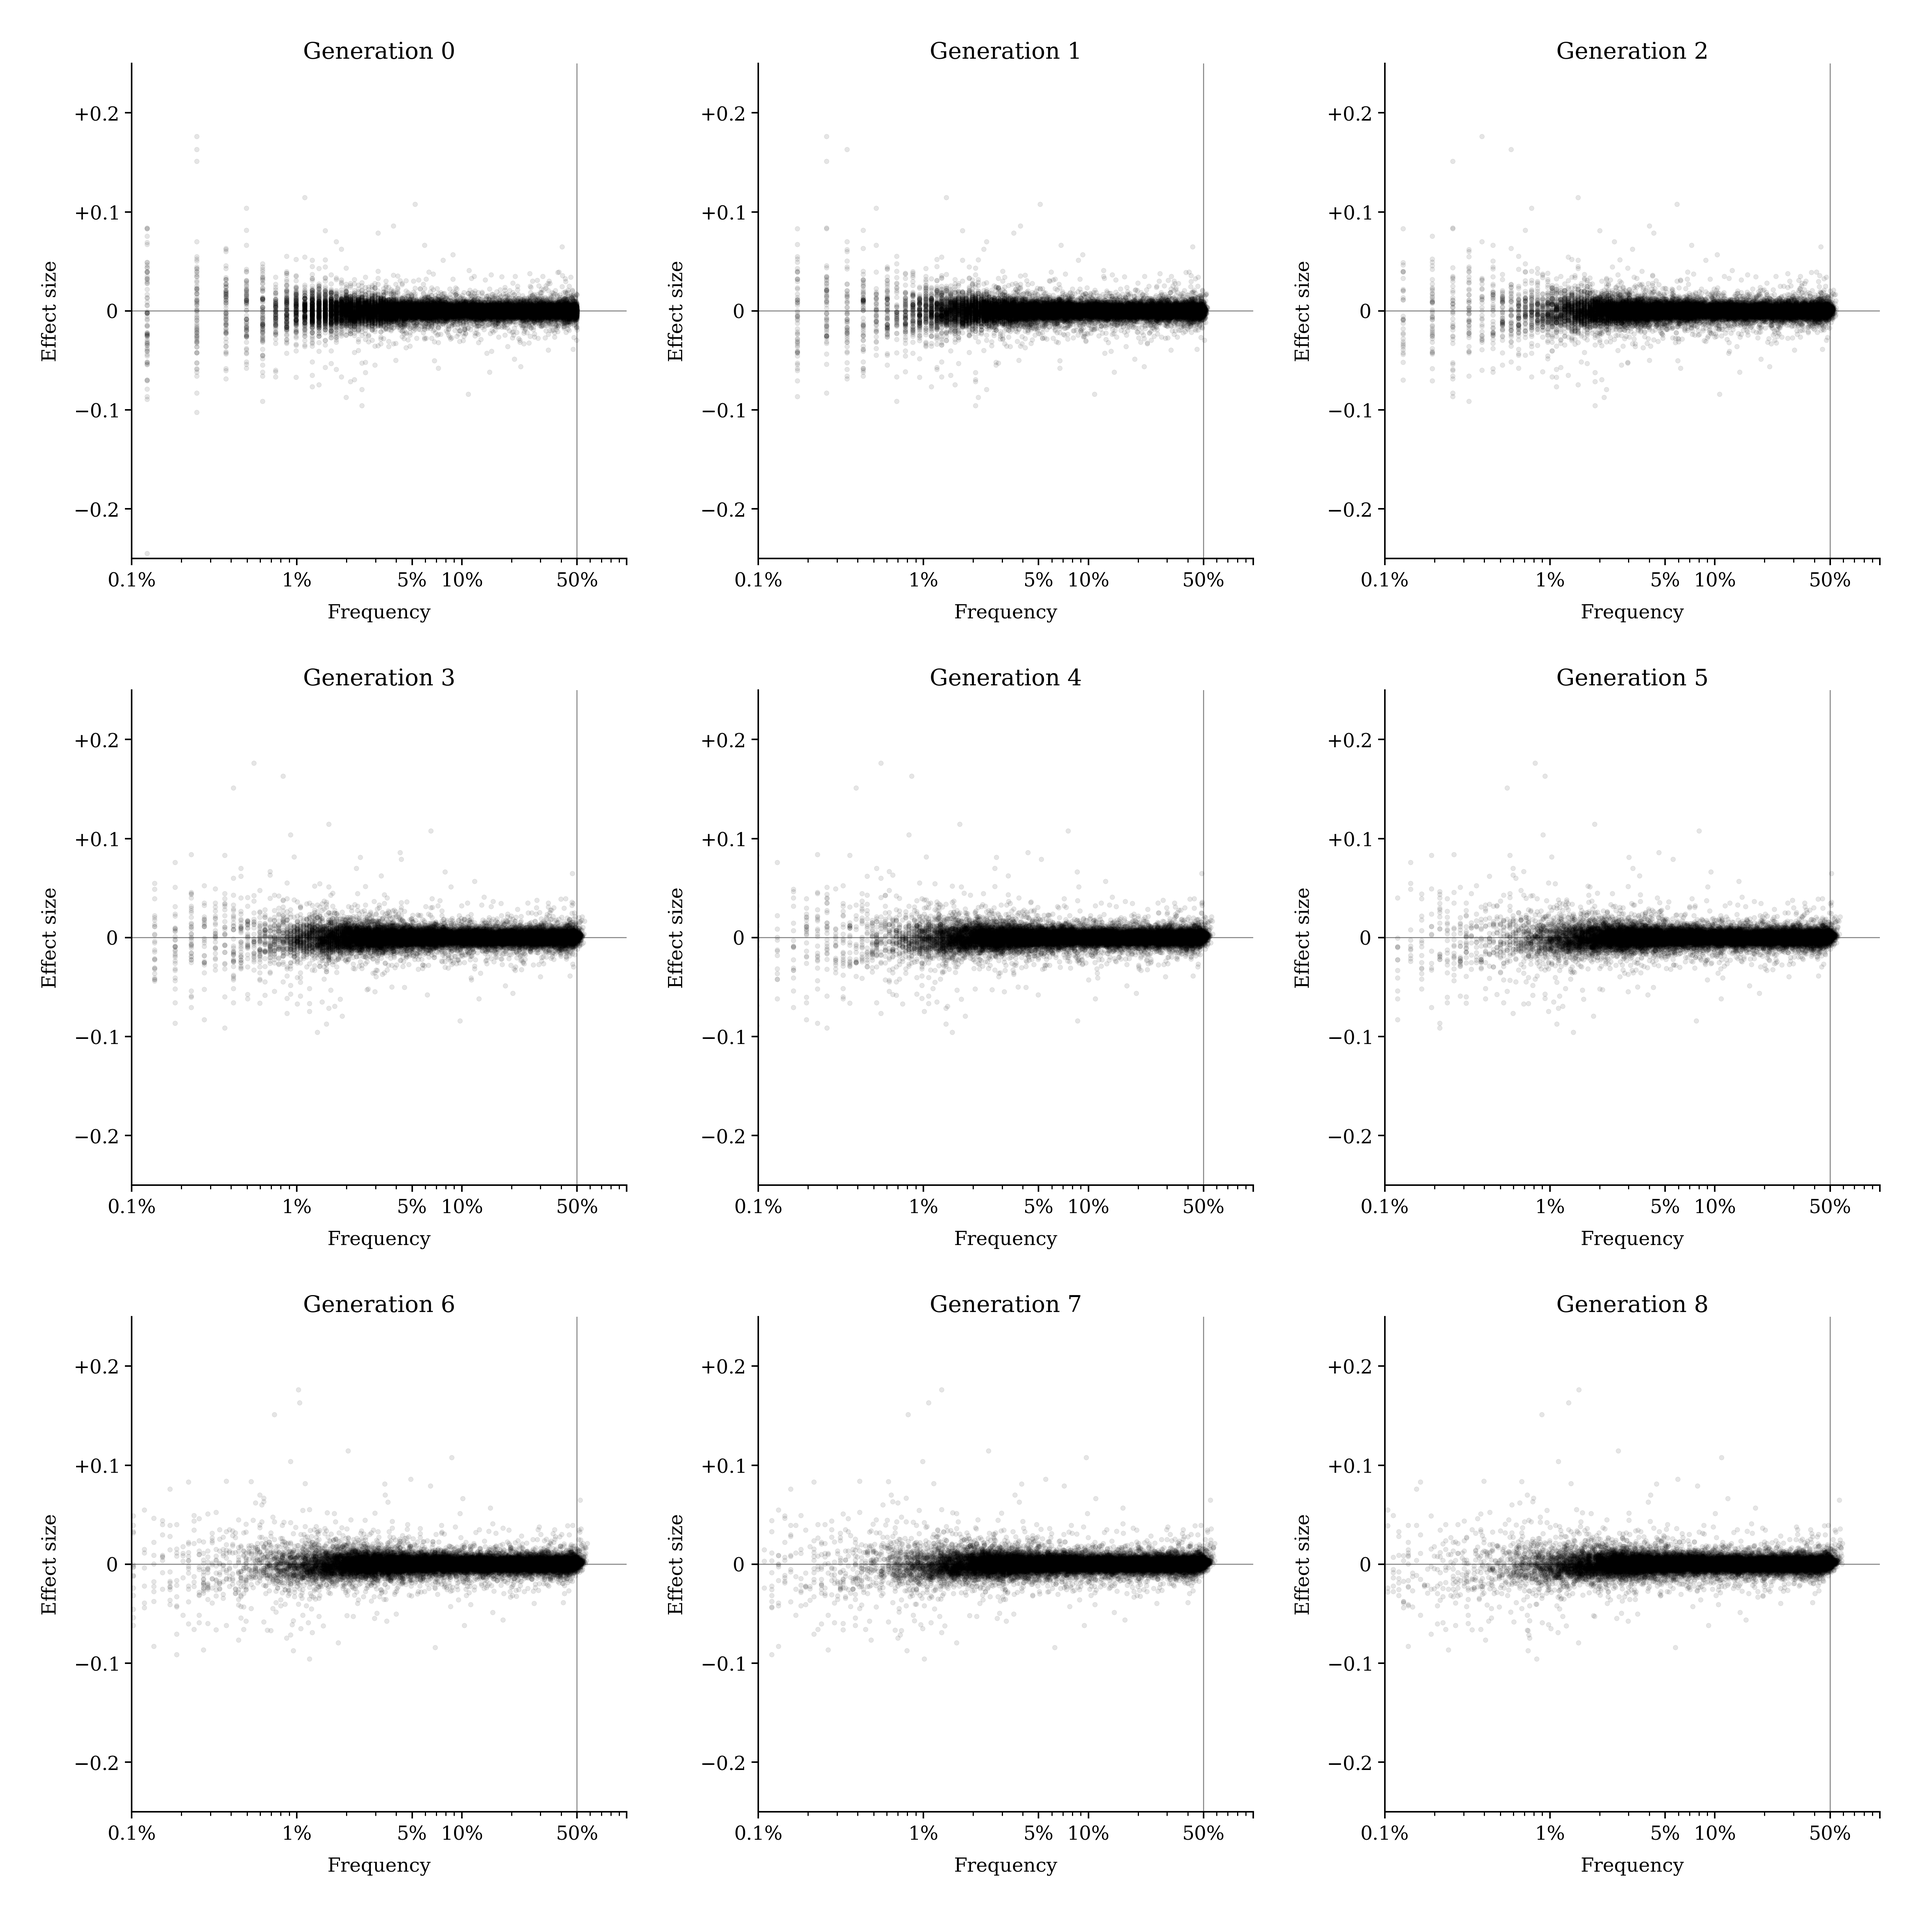
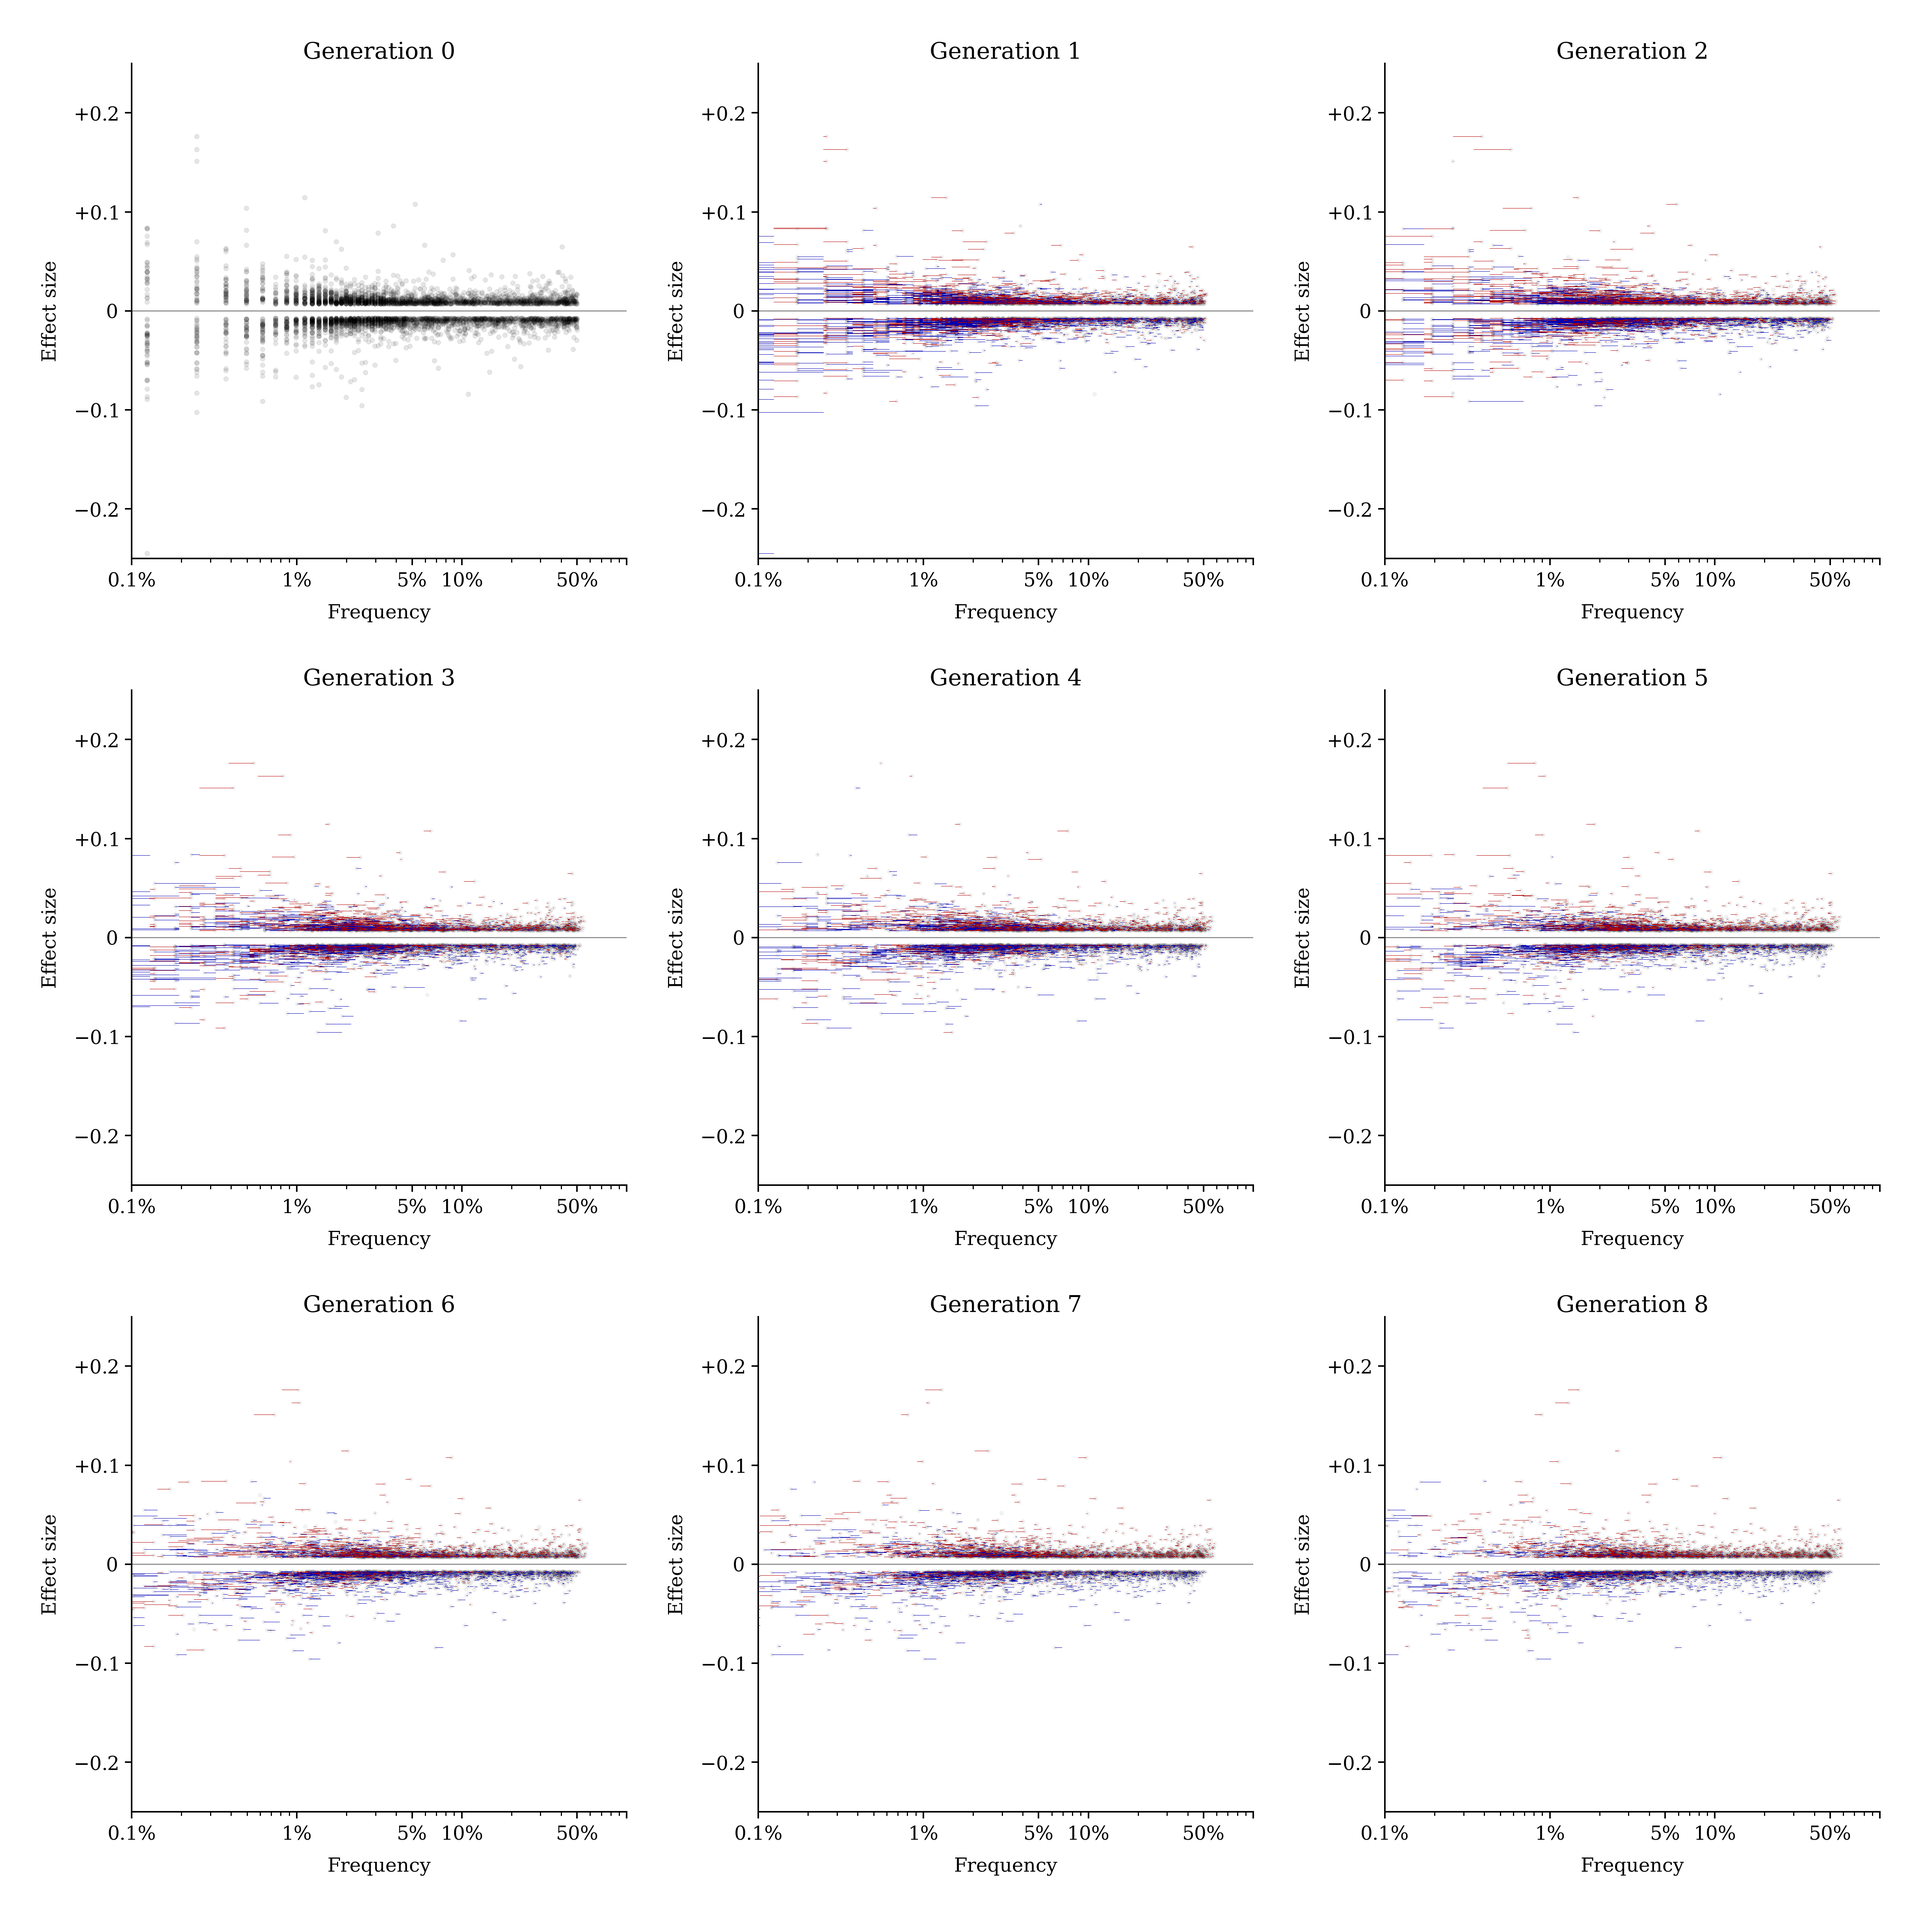
add freq vs weight with red and blue shifts

diff --git a/plotting.py b/plotting.py
@@ -13,6 +13,7 @@ def plot_simulation_results():
     plot_population_size_generations()
     plot_embryo_dists()
     plot_embryo_ranks()
+    plot_freq_vs_weight()
 
 
 def plot_male_female_meiosis_maps():
@@ -307,6 +308,70 @@ def plot_embryo_ranks():
     ax.set_ylim(0, 0.24)
     ax.remove_top_right_spines()
     save_fig(fig, "embryo_ranks", pad_inches=0.25)
+
+
+
+def plot_freq_vs_weight():
+    dfs = load_freq_vs_weight()
+    mask = dfs.minor_weight.abs() > dfs.minor_weight.abs().quantile(0.8)
+
+    fig, axs = square_fig(nrows=3, ncols=3)
+
+    def _plot_generation(axs, generation):
+        ax = axs[generation]
+
+        if True:
+            sns.scatterplot(
+                data=dfs[mask],
+                x=f"freq_gen_{generation}",
+                y="minor_weight",
+                ax=ax,
+                color='black',
+                s=6 if generation == 0 else 4,
+                alpha=0.1 if generation == 0 else 0.05,
+                # color='none',
+                edgecolor='black',
+                # s=5,
+                linewidth=0.2,
+            )
+    
+        if generation > 0:
+            for _, row in dfs[mask].iterrows():
+                before, after = row[f"freq_gen_{generation - 1}"], row[f"freq_gen_{generation}"]
+                color = RED if after > before else BLUE
+                ax.plot(
+                    [before, after],
+                    [row["minor_weight"], row["minor_weight"]],
+                    color=color,
+                    linewidth=0.2,
+                )
+        return ax
+
+    for generation in range(N_GENERATIONS + 1):
+        ax = _plot_generation(axs, generation)
+        
+        # X axis
+        # edge_x = 0.02
+        # ax.set_xlim(-edge_x, 1 + edge_x)
+        ax.set_xlim(0.001, 1)
+        ax.log_xscale()
+        ax.set_xticks([0.001, 0.01, 0.05, 0.1, 0.5, 1])
+        ax.set_xticklabels(["0.1%", "1%", "5%", "10%", "50%", " "])
+        ax.set_xlabel("Frequency")
+
+        # Y axis
+        ax.set_ylim(-0.25, 0.25)
+        ax.sign_yscale(decimals=1)
+        ax.set_ylabel("Effect size")
+
+        # Design
+        ax.set_title(f"Generation {generation}", pad=-20)
+        ax.remove_top_right_spines()
+        ax.hline(y=0, color='black', linewidth=0.5, alpha=0.5)
+        # ax.vline(x=0.5, color='black', linewidth=0.5, alpha=0.5)
+
+    save_fig(fig, "freq_vs_weight", pad_inches=0.3)
+
 
 
 

diff --git a/paul.py b/paul.py
@@ -588,6 +588,48 @@ def load_generation_scores():
 
 
 
+def save_freq_vs_weight():
+    dfs = load_df("height_score")
+    dfs.set_index(['chrom', 'pos'], inplace=True)
+
+    for generation in tqdm(range(N_GENERATIONS + 1)):
+        
+        names = load_generation_names(generation)
+        
+        dc = pd.Series(index=dfs.index, data=np.zeros(len(dfs)), dtype=int)
+        
+        for name in names:
+            dft = load_df(f"score_genomes/{generation}/{name}")
+            person_count = dft.set_index(['chrom', 'pos']).sum(axis=1)
+            dc += person_count
+        
+        freq = dc / len(names) / 2
+        
+        dfs[f"freq_gen_{generation}"] = freq
+
+    effect_is_ref = dfs.effect_allele == dfs.ref
+    effect_is_alt = dfs.effect_allele == dfs.alt
+    dft['alt_weight'] = np.nan
+    dfs.loc[effect_is_alt, "alt_weight"] = dfs.effect_weight
+    dfs.loc[effect_is_ref, "alt_weight"] = -1 * dfs.effect_weight
+    dfs['minor_weight'] = np.nan
+    alt_is_major_gen_0 = dfs.freq_gen_0 >= 0.5
+    alt_is_minor_gen_0 = dfs.freq_gen_0 < 0.5
+    dfs.loc[alt_is_minor_gen_0, "minor_weight"] = dfs.alt_weight
+    dfs.loc[alt_is_major_gen_0, "minor_weight"] = -1 * dfs.alt_weight
+    freq_cols = [f"freq_gen_{i}" for i in range(N_GENERATIONS + 1)]
+    dfs.loc[alt_is_major_gen_0, freq_cols] = 1 - dfs.loc[alt_is_major_gen_0, freq_cols]
+
+    save_df(dfs.reset_index(), "freq_vs_weight")
+
+
+
+
+def load_freq_vs_weight():
+    dfs = load_df("freq_vs_weight")
+    dfs = dfs.set_index(['chrom', 'pos'])
+    return dfs
+
 
 
 

diff --git a/island.py b/island.py
@@ -10,6 +10,12 @@ def run_generation(generation):
     select_generation_embryos(generation)
 
 
+def save_results():
+    save_generation_scores()
+    save_intergenerational_scores()
+    save_freq_vs_weight()
+
+
 def main():
     
     # Store the preparatory data
@@ -21,10 +27,9 @@ def main():
     # Run the simulation over generations
     for generation in range(N_GENERATIONS):
         run_generation(generation)
-    
-    # Save the results data
-    save_generation_scores()
-    save_intergenerational_scores()
+
+    # Save the results
+    save_results()
 
     # Plot the results
     plot_simulation_results()

diff --git a/README.md b/README.md
@@ -17,4 +17,7 @@
 
 ![](images/embryo_dists.png)
 
+![](images/freq_vs_weight.png)
+
+
 
